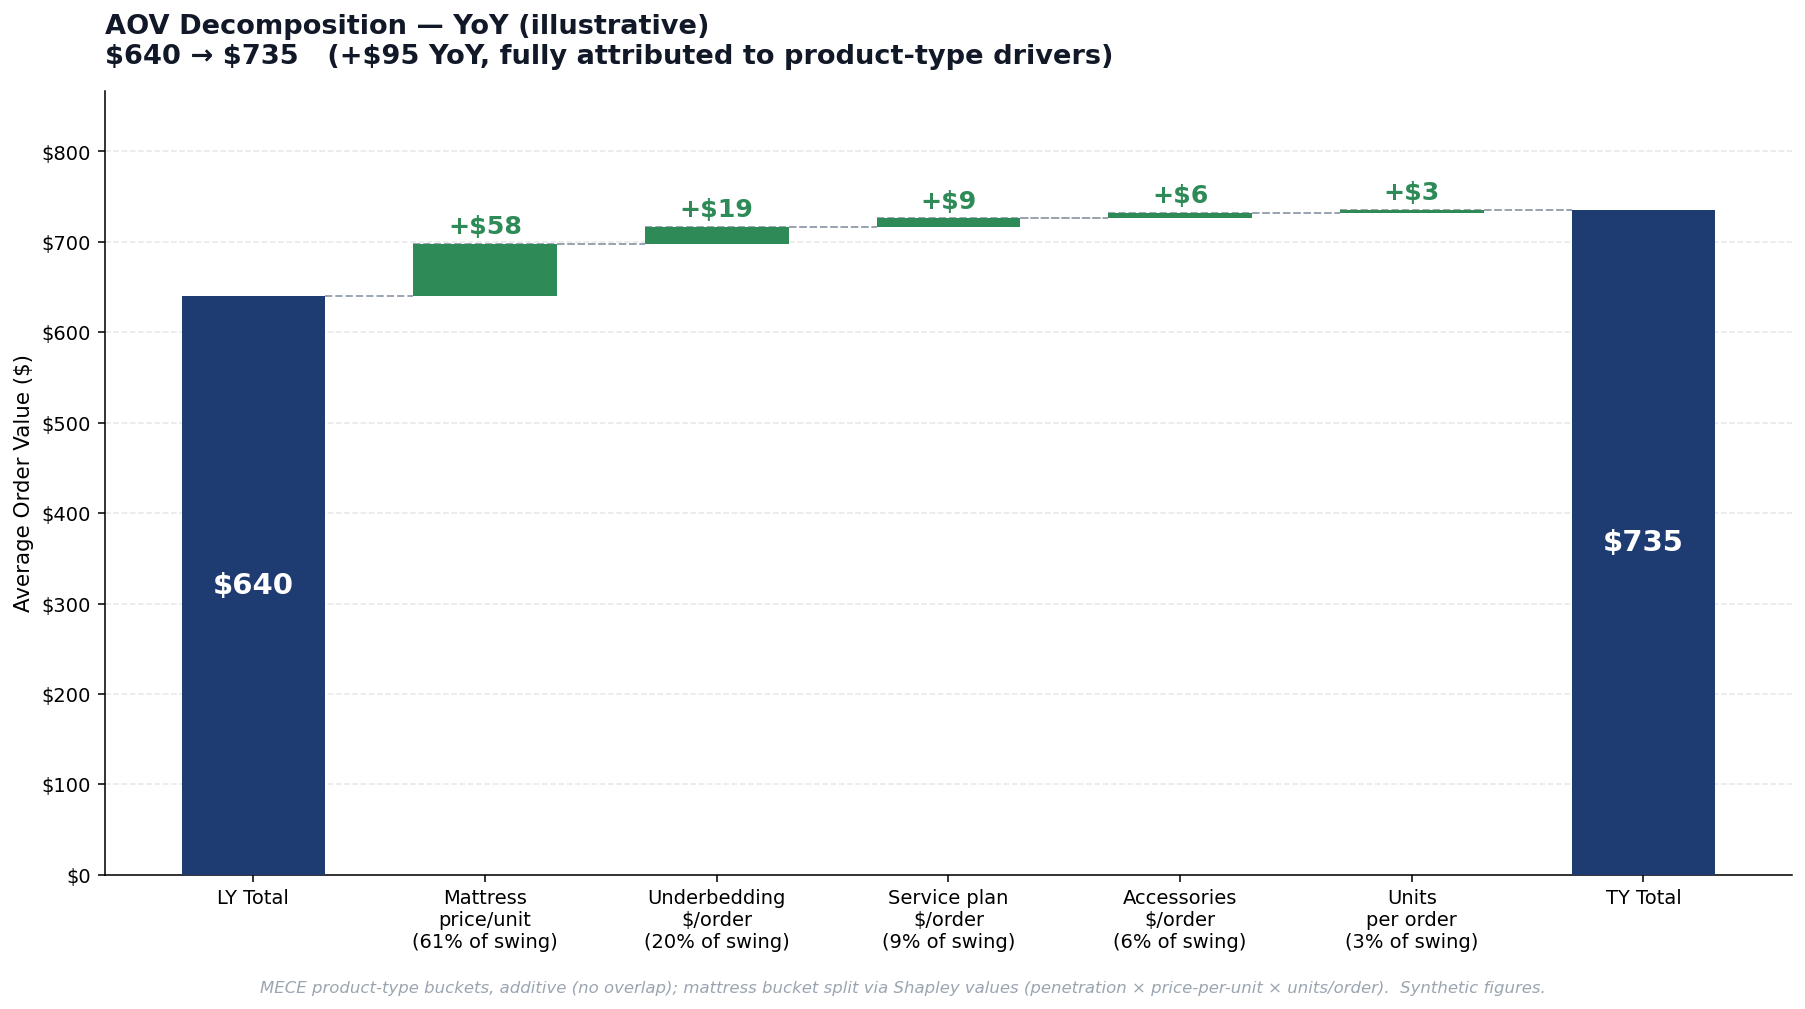
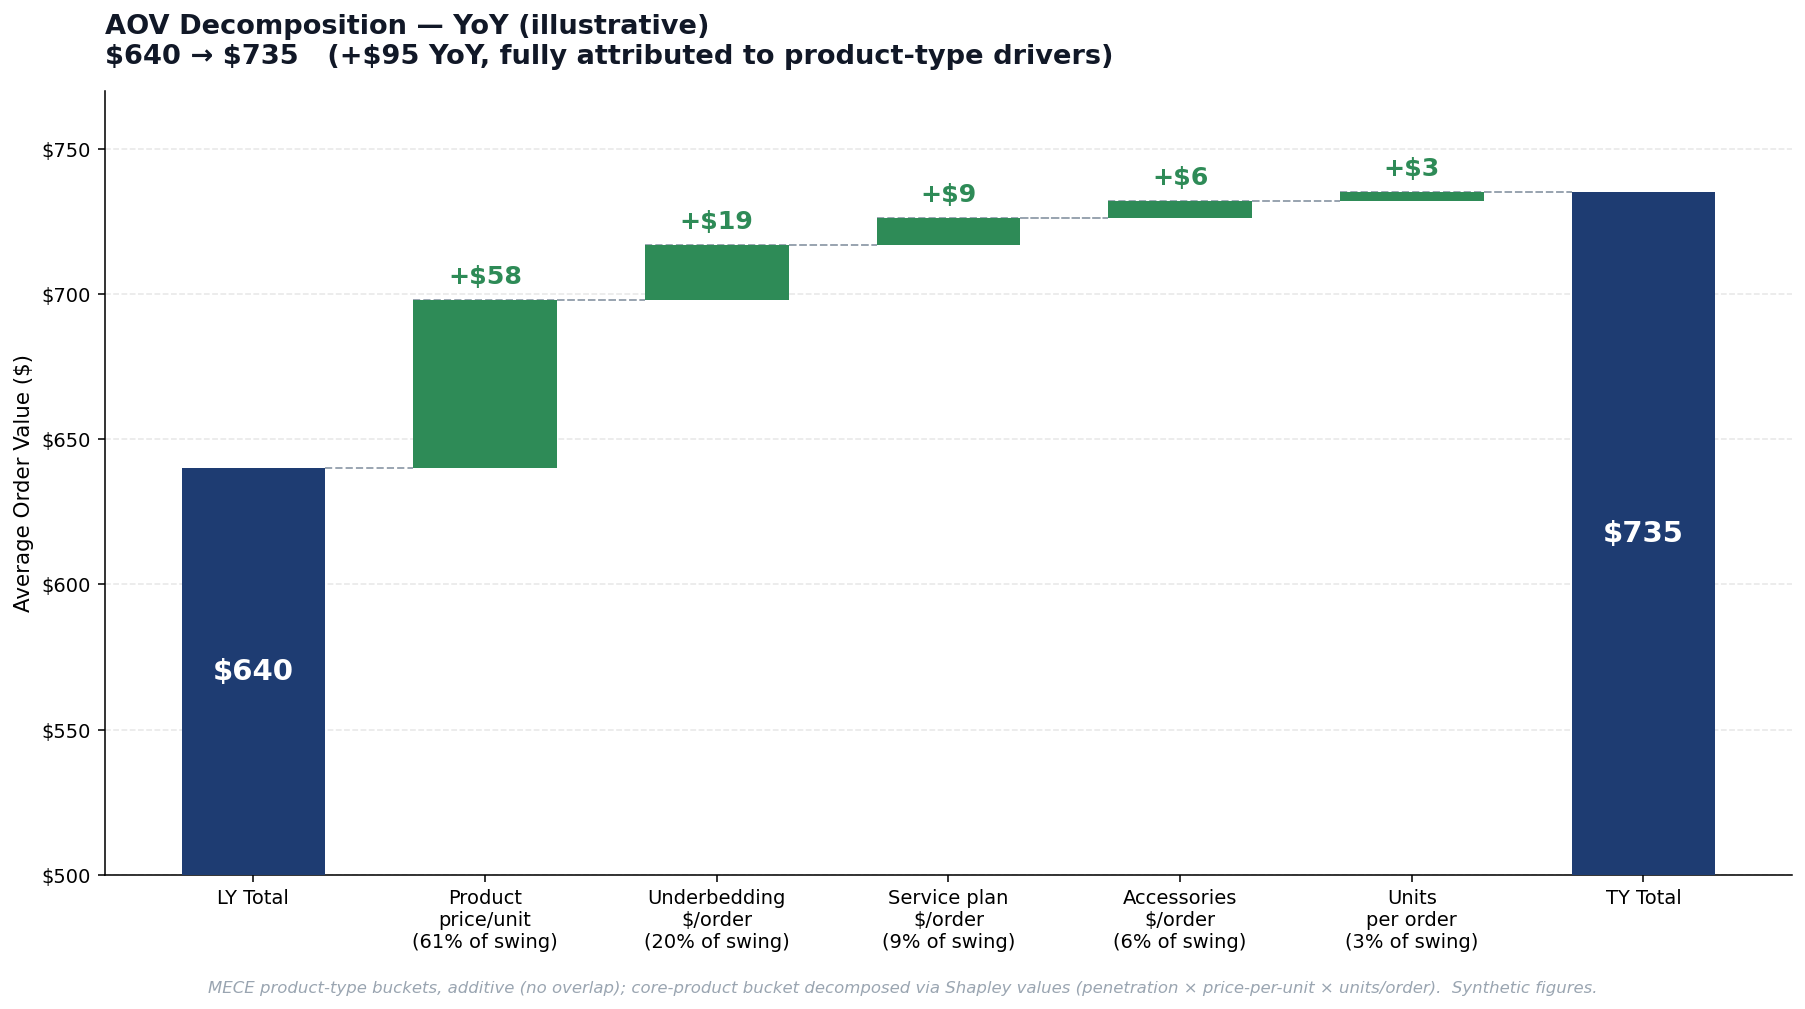
AOV visual: generic 'Product price/unit' label, y-axis baseline at $500
- Replace 'Mattress' references with 'Product' / 'core-product' (label,
  methodology note, modal caption)
- Zoom y-axis to start at $500 so the YoY variance is legible; anchor bars
  drawn from the zoomed baseline

diff --git a/index.html b/index.html
@@ -188,7 +188,7 @@
                          data-modal-id="aov-decomposition"
                          data-modal-title="AOV Decomposition — YoY Driver Waterfall (illustrative)"
                          data-modal-src="samples/aov-decomposition.png"
-                         data-modal-caption="Decomposed a $95 YoY AOV gain to the exact driver — pinpointing that mattress price-per-unit, not mix or attach rate, carried 61% of the lift. Turned a 'why is AOV up?' question into a one-day, defensible answer."
+                         data-modal-caption="Decomposed a $95 YoY AOV gain to the exact driver — pinpointing that product price-per-unit, not mix or attach rate, carried 61% of the lift. Turned a 'why is AOV up?' question into a one-day, defensible answer."
                          aria-label="View visual: AOV YoY decomposition waterfall">
                     <div class="sample-thumb">
                         <img src="samples/aov-decomposition.png" alt="" loading="lazy">

diff --git a/samples/_build_aov_chart.py b/samples/_build_aov_chart.py
@@ -16,7 +16,7 @@ import matplotlib.ticker as mticker
 # Synthetic data: prior-year AOV, the YoY drivers, this-year AOV.
 ly_total = 640
 drivers = [
-    ("Mattress\nprice/unit", 58),
+    ("Product\nprice/unit", 58),
     ("Underbedding\n$/order", 19),
     ("Service plan\n$/order", 9),
     ("Accessories\n$/order", 6),
@@ -27,6 +27,8 @@ swing = ty_total - ly_total  # 95
 
 labels = ["LY Total"] + [d[0] for d in drivers] + ["TY Total"]
 n = len(labels)
+
+Y_MIN = 500  # zoomed baseline so the variance is legible
 
 NAVY = "#1e3c72"
 GREEN = "#2e8b57"
@@ -39,16 +41,16 @@ ax.set_facecolor("white")
 x = range(n)
 running = ly_total
 
-# LY anchor
-ax.bar(0, ly_total, width=0.62, color=NAVY, zorder=3)
-ax.text(0, ly_total / 2, f"${ly_total}", ha="center", va="center",
+# LY anchor (drawn from the zoomed baseline)
+ax.bar(0, ly_total - Y_MIN, width=0.62, bottom=Y_MIN, color=NAVY, zorder=3)
+ax.text(0, Y_MIN + (ly_total - Y_MIN) / 2, f"${ly_total}", ha="center", va="center",
         color="white", fontsize=15, fontweight="bold")
 
 # Driver bars (floating)
 for i, (name, val) in enumerate(drivers, start=1):
     bottom = running
     ax.bar(i, val, width=0.62, bottom=bottom, color=GREEN, zorder=3)
-    ax.text(i, bottom + val + 6, f"+${val}", ha="center", va="bottom",
+    ax.text(i, bottom + val + 4, f"+${val}", ha="center", va="bottom",
             color=GREEN, fontsize=13, fontweight="bold")
     # connector to next
     ax.plot([i - 0.31, i + 0.31 + (1 - 0.62)], [bottom + val, bottom + val],
@@ -59,8 +61,8 @@ for i, (name, val) in enumerate(drivers, start=1):
     running += val
 
 # TY anchor
-ax.bar(n - 1, ty_total, width=0.62, color=NAVY, zorder=3)
-ax.text(n - 1, ty_total / 2, f"${ty_total}", ha="center", va="center",
+ax.bar(n - 1, ty_total - Y_MIN, width=0.62, bottom=Y_MIN, color=NAVY, zorder=3)
+ax.text(n - 1, Y_MIN + (ty_total - Y_MIN) / 2, f"${ty_total}", ha="center", va="center",
         color="white", fontsize=15, fontweight="bold")
 # connector into TY total
 ax.plot([n - 2 + 0.31, n - 1 - 0.31], [running, running],
@@ -77,7 +79,7 @@ for i, lab in enumerate(labels):
         xt_labels.append(lab)
 ax.set_xticklabels(xt_labels, fontsize=10)
 
-ax.set_ylim(0, ty_total * 1.18)
+ax.set_ylim(Y_MIN, ty_total + 35)
 ax.set_ylabel("Average Order Value ($)", fontsize=11, fontweight="500")
 ax.yaxis.set_major_formatter(mticker.FuncFormatter(lambda v, _: f"${int(v)}"))
 ax.grid(True, axis="y", alpha=0.3, linestyle="--", zorder=0)
@@ -92,7 +94,7 @@ ax.set_title(
 
 # subtle methodology note
 fig.text(0.5, -0.02,
-         "MECE product-type buckets, additive (no overlap); mattress bucket split via Shapley values "
+         "MECE product-type buckets, additive (no overlap); core-product bucket decomposed via Shapley values "
          "(penetration × price-per-unit × units/order).  Synthetic figures.",
          ha="center", fontsize=8.5, color="#9aa5b1", style="italic")
 
